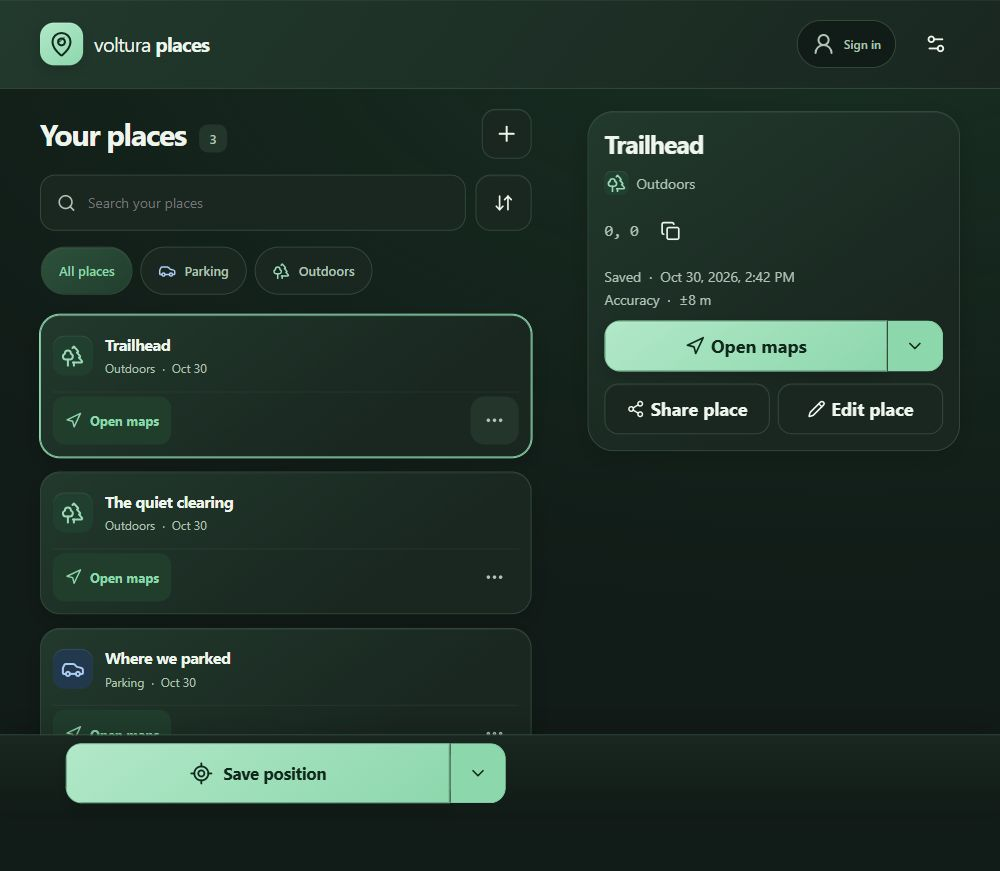
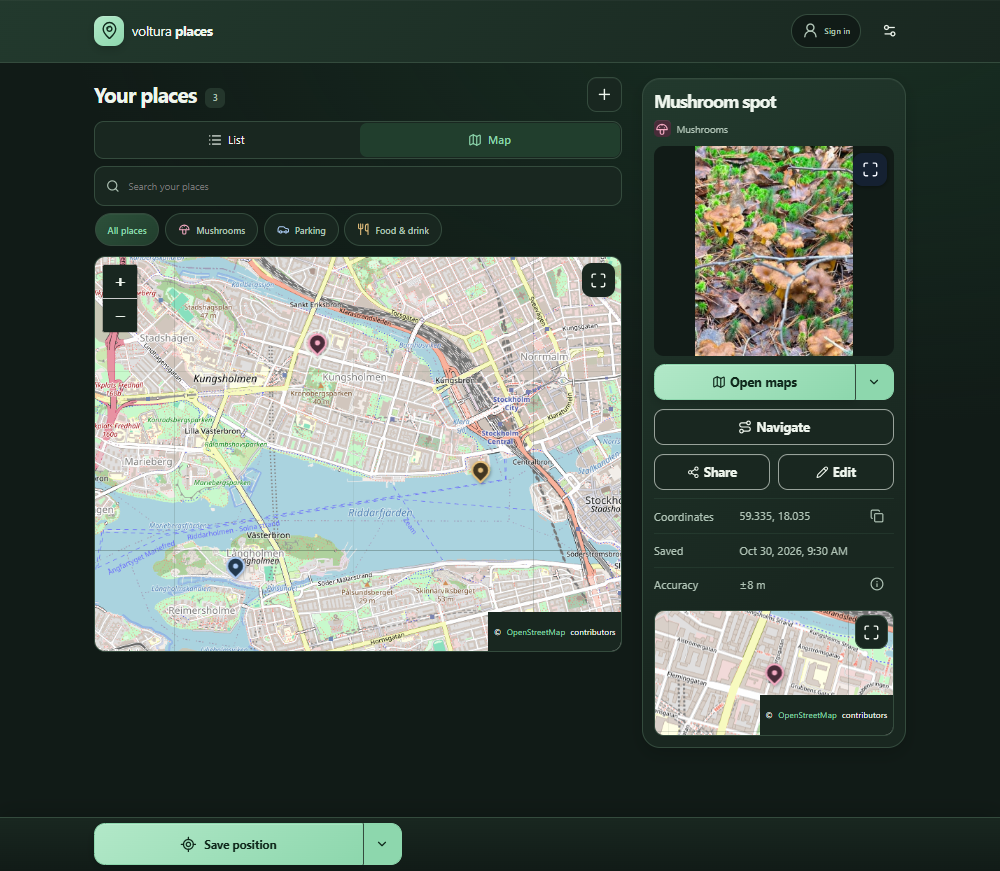
Refresh promo for maps, place photos and current installation guidance

diff --git a/tests/promo-installation.test.ts b/tests/promo-installation.test.ts
@@ -1,0 +1,16 @@
+import { readFile } from "node:fs/promises";
+import { expect, test } from "vitest";
+import { en, sv } from "../src/client/foundation/i18n";
+
+test("promo installation instructions stay aligned with the app's owner-reviewed guidance", async () => {
+  const content = JSON.parse(await readFile("site/content.json", "utf8"));
+  for (const [language, messages] of Object.entries({ en, sv })) {
+    expect(content[language].iosSteps).toEqual([
+      messages.installShare,
+      messages.installExpandShare,
+      messages.installHomeScreen,
+      messages.installConfirm,
+    ]);
+    expect(content[language].android).toBe(messages.installAndroid);
+  }
+});

diff --git a/site/site.css b/site/site.css
@@ -743,7 +743,7 @@ details p {
 }
 .install-guide > div {
   display: flex;
-  align-items: center;
+  align-items: flex-start;
   gap: 18px;
   padding-block: 24px;
 }
@@ -752,6 +752,22 @@ details p {
 }
 .install-guide .icon {
   color: var(--accent);
+  flex-shrink: 0;
+}
+.install-guide section {
+  min-width: 0;
+}
+.install-guide h3 {
+  font-size: 15px;
+}
+.install-steps {
+  margin: 14px 0 0;
+  padding-left: 20px;
+  font-size: 15px;
+  color: var(--muted);
+}
+.install-steps li + li {
+  margin-top: 12px;
 }
 .install-guide p {
   font-size: 15px;

diff --git a/docs/assets.md b/docs/assets.md
@@ -10,7 +10,7 @@ Apple touch icons use opaque square backgrounds for iOS corner masking. Startup 
 
 English/Swedish 1200×630 social cards are generated locally from project vector artwork, the matching localized mobile screenshot and the checked-in Inter font. Inter was obtained from the Google Fonts repository (`ofl/inter/Inter[opsz,wght].ttf`); its SIL Open Font License is retained beside it. The font is a build input, not a browser font download. The promo publisher allows only the two localized, content-hashed social image names inside `/places/assets/`.
 
-`site/assets/app-mobile.png` and `app-mobile-sv.png` are actual Chromium captures of the local app at 390×844. Native scrollbars are hidden only in the isolated capture harness, preserving scrolling in the real app. Their three locations were entered manually as synthetic examples for screenshots, not captured from a person's position. English place names are user content and remain unchanged when the UI switches to Swedish. The phone imagery has no caption or footer strip. Synthetic-content provenance is recorded here and in image alternative text. Desktop captures `site/assets/app-desktop.png` and `app-desktop-sv.png` are 1000×871 full-page captures of the same isolated library with a selected place. The temporary harness isolates IndexedDB, preferences, account responses and broadcast events from the review browser data and is removed after capture. The promo uses straight device frames to avoid rotated screenshot edge seams.
+`site/assets/app-mobile.png` and `app-mobile-sv.png` are actual Chromium captures of the local app at 390×844, refreshed on 2 November 2026. They show List view with its List/Map switch. Native scrollbars are hidden only in the isolated capture session, preserving scrolling in the real app. Their three locations are synthetic examples, not captured from a person's position; example names do not describe actual businesses or destinations. English place names are user content and remain unchanged when the UI switches to Swedish. The phone imagery has no caption or footer strip. Synthetic-content provenance is recorded here and in image alternative text. Desktop captures `site/assets/app-desktop.png` and `app-desktop-sv.png` are 1000×871 viewport captures of the same isolated library in Map view with a selected place. Capture-only 70% CSS zoom keeps the complete map, details preview and OpenStreetMap attribution visible. Background tiles are actual OpenStreetMap tiles; copyright attribution remains visible in both map surfaces. A separate temporary Playwright browser session isolates IndexedDB, preferences and mocked signed-out account responses from the user's review browser data. The selected Mushroom spot uses the owner-supplied mushroom photograph requested for the promo on 2 November 2026. It was imported through the app’s normal photo picker, which redraws/compresses the image without retaining source metadata; its example coordinates are synthetic and unrelated to the photograph. The original upload is not added to the repository or deployment. The promo uses straight device frames to avoid rotated screenshot edge seams.
 
 The app uses system fonts and Lucide icons (ISC license). React, Better Auth, Zod and Workbox use their respective open-source licenses; bundled third-party license comments are retained by the build. No paid image, map, font or AI generation service is required.
 

diff --git a/README.md b/README.md
@@ -2,13 +2,14 @@
 
 **Save a place. Find your way back.** A mobile-first location library for the trailhead, the quiet clearing, and where you parked. Freeware with MIT-licensed source. English and Swedish.
 
-Save GPS positions on your device, then name them, choose a category or add a photo. **Save with details** can start from GPS or a photo’s embedded location. Search and filter offline, open Google Maps or Apple Maps, share a snapshot link, and import/export JSON backups. Optional account sync brings places and photos to your other devices when online.
+Save GPS positions on your device, then name them, choose a category or add a photo. **Save with details** can start from GPS, a photo’s embedded location or manually entered coordinates. Browse List or Map with shared search and category filters, open places or directions in Google Maps or Apple Maps, share a snapshot link, and import/export JSON backups. Optional account sync brings places and photos to your other devices when online.
 
 - **Private places and separate groups.** Choose a library before saving. Each group has its own places, photos and members; private places stay private. Copy a private place to a chosen group while keeping the original independent.
 - **Invite from inside the app.** In Settings → Family sharing, create a named group and share its four-digit code. The recipient signs in and enters it in their own app; the owner approves the request. Codes remain available until approved or cancelled. One account supports up to 20 groups, with up to 10 members each. Members can add, edit and delete shared places and photos.
-- **A readable interface.** Dark by default, with Light/System themes, English/Swedish, category colours and icons, large phone controls, and a desktop details pane.
+- **List and Map.** Explore clustered category-coloured pins, select a place for details, or expand the map to fullscreen. Place details include a map preview. Saved places remain available offline; map backgrounds require internet and have no downloadable regions.
+- **A readable interface.** Dark by default, with Light/System themes, English/Swedish, 12 category colours and 48 icons, large phone controls, and a desktop details pane.
 - **Offline and recovery.** Saves commit locally before success. Signed-in changes sync when online. Settings → Backup offers device-storage retention and JSON backups; browser data can still be cleared, so keep exports. Downloaded group copies remain readable/exportable after access ends.
-- **Install from your browser.** iPhone: Safari → Share → Add to Home Screen. Android: browser menu → Install app / Add to home screen. No app store, paid map API or runtime AI service.
+- **Install from your browser.** Open Places first. iPhone Safari: menu beside the address bar → Share (or the visible Share button) → View More if needed → Add to Home Screen → Add, keeping Open as Web App enabled when shown. Android Chrome: More → Install and create shortcut → Install. No app store, paid map API or runtime AI service.
 
 ![Current dark Places interface with synthetic example places](site/assets/app-mobile.png)
 

diff --git a/docs/verification.md b/docs/verification.md
@@ -1,3 +1,9 @@
+# Promo feature refresh — 2 November 2026 (local, unpublished)
+
+The English/Swedish promo now describes List/Map browsing, clustered category-coloured pins, fullscreen maps, place previews, manual coordinates, navigation and current group creation. Offline and privacy copy explains online-only map backgrounds and tile-provider requests. Four localized Chromium captures use synthetic places, with desktop map attribution visible; regenerated social cards were visually inspected.
+
+Type/document checks, the integrated production build, six promo-installation/branding/publisher tests and the promo dry run pass. The manifest contains thirteen Places-only files. Chromium checks cover both languages at 390px and 1440px in both themes, image decoding, app URLs, anchor targets, language switching and both statistics pages. Full-page captures were visually inspected. Owner feedback identified stale installation guidance: both languages now use the app's four Safari steps, including the address-bar menu, conditional View More and Open as Web App, plus current Android Chrome guidance. A parity test protects these strings against future drift; the revised installation layouts were visually inspected. These are browser/emulation checks, not physical-device validation. The existing build chunk-size advisory remains. Publication is pending validation of the clean source commit.
+
 # 0.1.12 — App-wide join requests, 1 November 2026
 
 Owners receive live join-request prompts across the app, showing the requester and group with Approve/Decline. Owner feedback removed the extra approval explanation and Later button; closing with × leaves a session reminder. Approve uses a checkmark and Decline uses UserRoundX. The owner approved the final screenshot and requested commit/publication. English/Swedish previews were visually inspected on the shared 5173 preview. Automated browser fixtures use synthetic identities, not real invitations.
